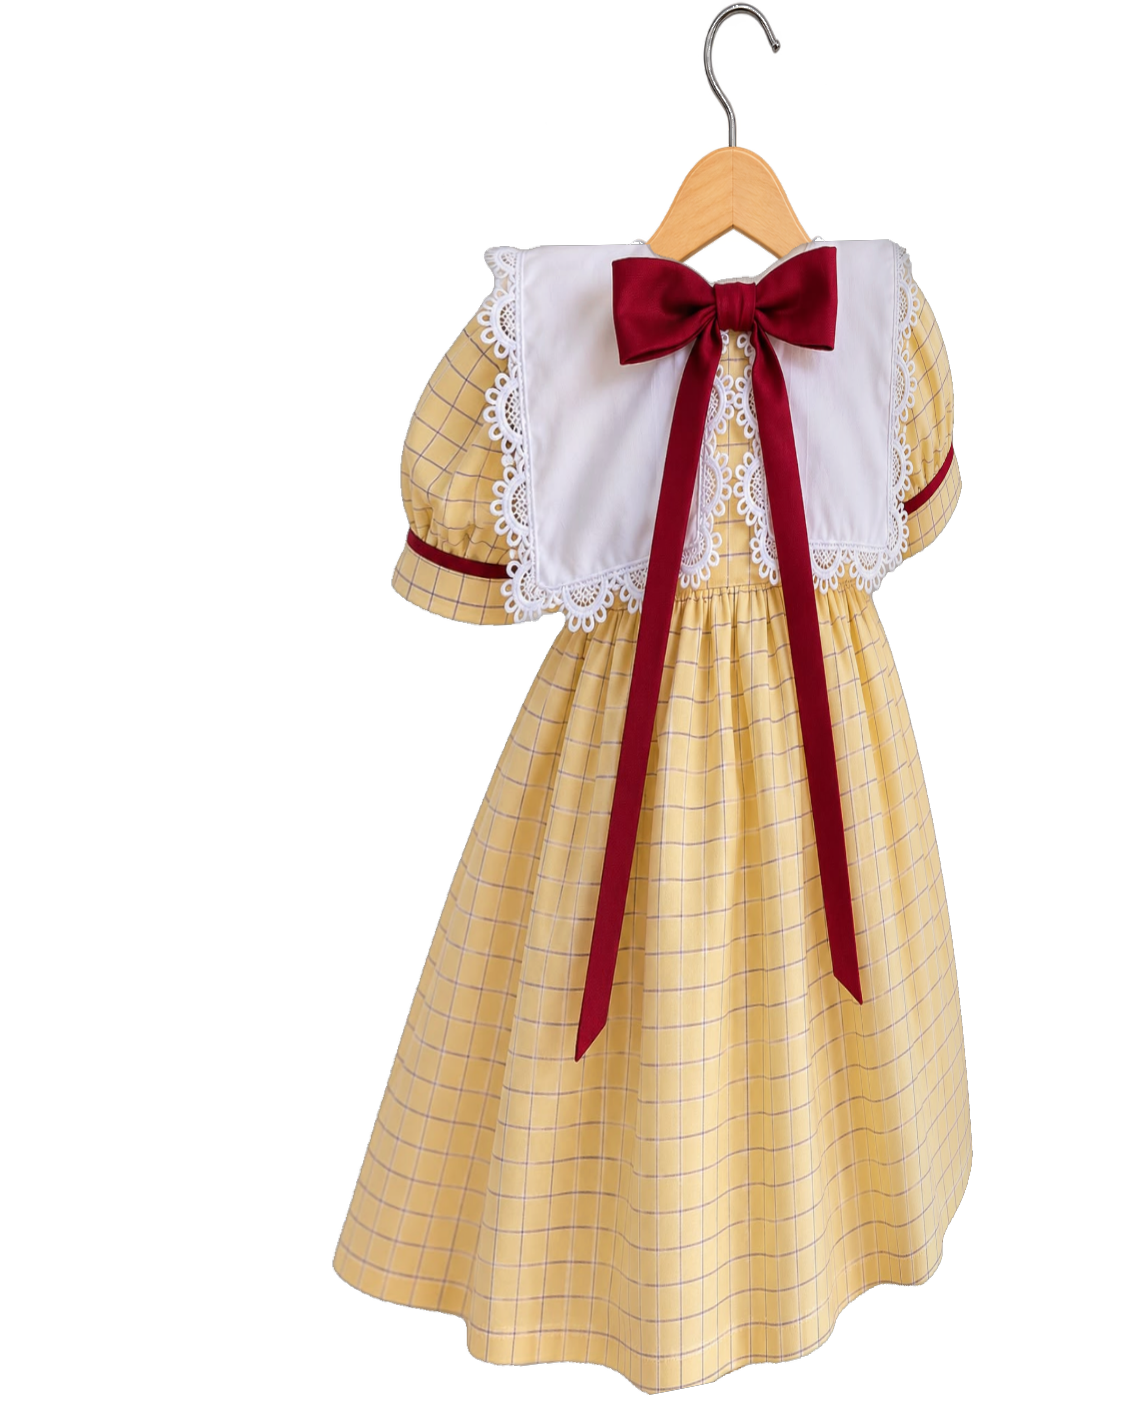
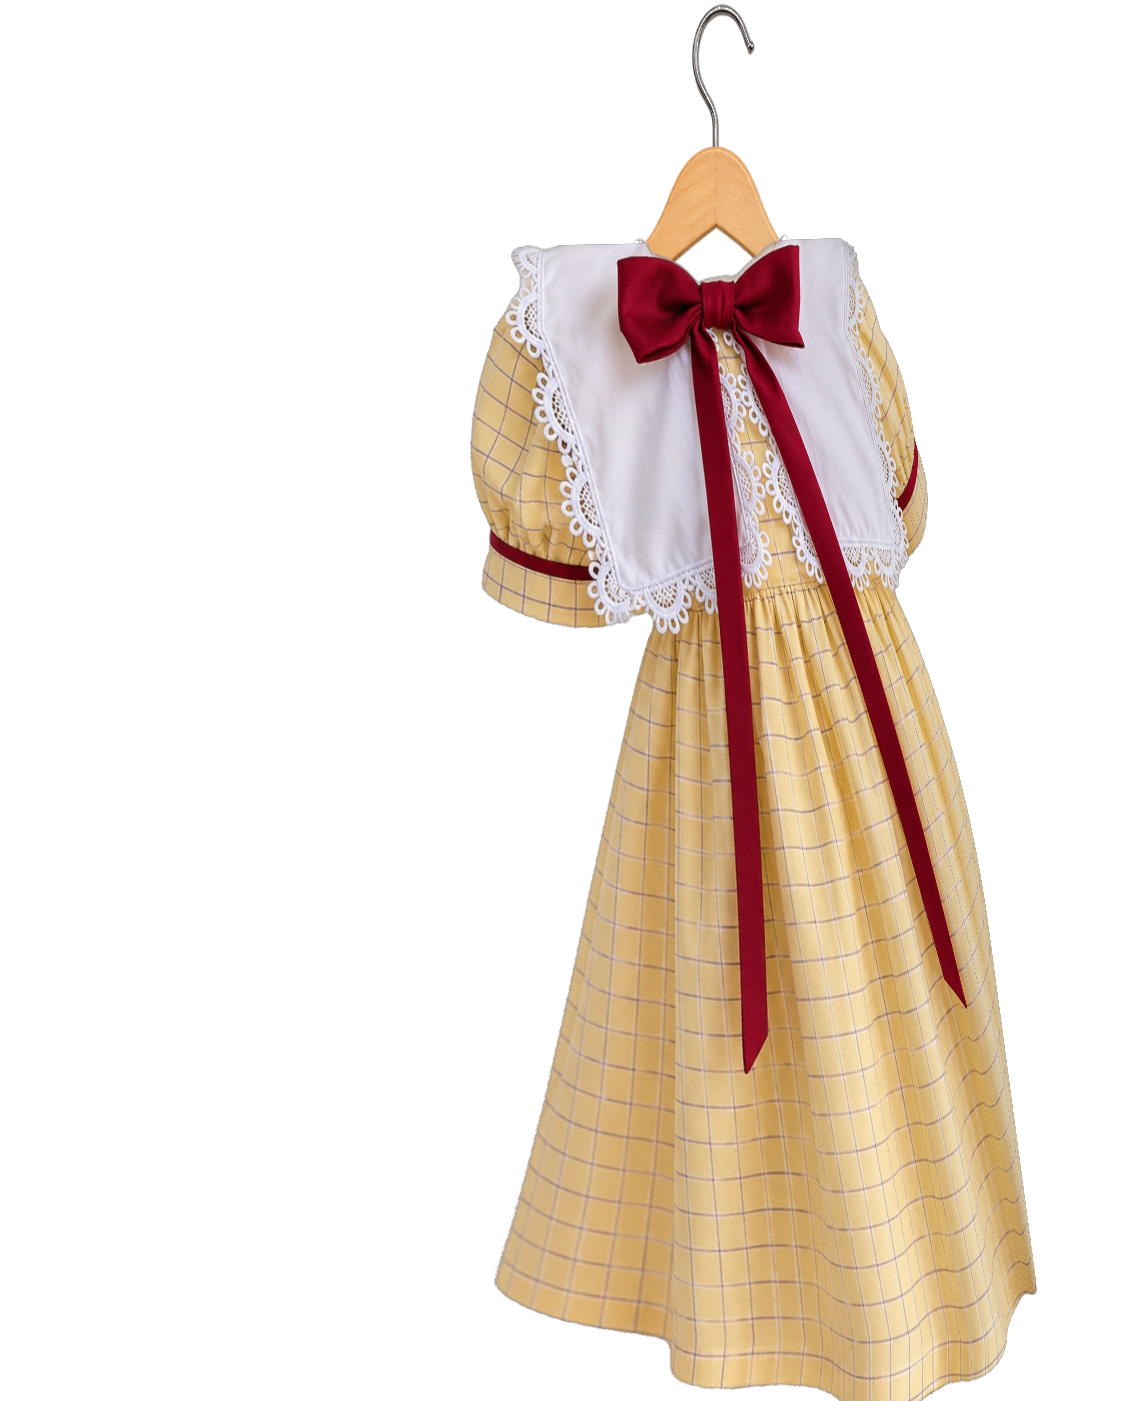
Ajusta o ângulo do Vestido Pão de Mel no cabideiro
Gira mais a peça (cerca de 55°) e mantém o volume da saia rodada,
estreitando só o corpinho, para combinar com as outras laterais.

Claude-Session: https://claude.ai/code/session_01JWzVUfE6a2CxmnwEsjALQt

diff --git a/encaixe-cabides.js b/encaixe-cabides.js
@@ -1,4 +1,4 @@
-window.BIBILICA_HOOKS={"assets/recortes/vestido-pao-de-mel.png": {"woodY": 145, "woodX": 560.1}, "assets/laterais/vestido-pao-de-mel.png": {"woodY": 145, "woodX": 732.8}, "assets/laterais/vestido-nuvem-verde.png": {"anchor": 33.8, "cut": 77.2, "x": 537.0, "woodY": 148, "woodX": 540.6}, "assets/recortes/vestido-nuvem-verde.png": {"anchor": 50.2, "cut": 125.8, "x": 545.0, "woodY": 145, "woodX": 560.1}, "assets/laterais/vestido-abelhinha.png": {"anchor": 33.6, "cut": 74.9, "x": 520.5, "woodY": 218, "woodX": 535.26}, "assets/laterais/vestido-algodao-doce.png": {"anchor": 44.2, "cut": 91.8, "x": 529.0, "woodY": 151, "woodX": 517.6}, "assets/laterais/vestido-botao-de-rosa.png": {"anchor": 43.6, "cut": 91.9, "x": 534.5, "woodY": 161, "woodX": 540.5}, "assets/laterais/vestido-campinho-azul.png": {"anchor": 40.4, "cut": 90.1, "x": 555.5, "woodY": 151, "woodX": 565.3}, "assets/laterais/vestido-campinho.png": {"anchor": 41.8, "cut": 88.7, "x": 559.5, "woodY": 160, "woodX": 566.3}, "assets/laterais/vestido-cerejeira.png": {"anchor": 35.6, "cut": 76.9, "x": 543.5, "woodY": 172, "woodX": 531.39}, "assets/laterais/vestido-cerejinha.png": {"anchor": 39.2, "cut": 90.3, "x": 505.5, "woodY": 149, "woodX": 514.9}, "assets/laterais/vestido-guirlanda.png": {"anchor": 28.2, "cut": 65.3, "x": 555.5, "woodY": 120, "woodX": 560.3}, "assets/laterais/vestido-jardinzinho.png": {"anchor": 31.8, "cut": 68.2, "x": 561.0, "woodY": 116, "woodX": 565.8}, "assets/laterais/vestido-laco-de-fita.png": {"anchor": 29.4, "cut": 65.1, "x": 555.5, "woodY": 102, "woodX": 561.7}, "assets/laterais/vestido-marujinha.png": {"anchor": 41.2, "cut": 92.3, "x": 535.5, "woodY": 146, "woodX": 535.7}, "assets/laterais/vestido-nuvem.png": {"anchor": 33.8, "cut": 77.2, "x": 537.0, "woodY": 148, "woodX": 540.6}, "assets/laterais/vestido-raminho.png": {"anchor": 35.8, "cut": 79.2, "x": 544.0, "woodY": 123, "woodX": 553.2}, "assets/recortes/vestido-abelhinha.png": {"anchor": 42.0, "cut": 101.5, "x": 648.5, "woodY": 146, "woodX": 654.2}, "assets/recortes/vestido-algodao-doce.png": {"anchor": 26.2, "cut": 59.8, "x": 636.0, "woodY": 144, "woodX": 633.6}, "assets/recortes/vestido-botao-de-rosa.png": {"anchor": 58.0, "cut": 131.5, "x": 525.5, "woodY": 165, "woodX": 536.2}, "assets/recortes/vestido-campinho-azul.png": {"anchor": 53.6, "cut": 126.4, "x": 546.0, "woodY": 147, "woodX": 559.6}, "assets/recortes/vestido-campinho.png": {"anchor": 56.6, "cut": 139.9, "x": 555.0, "woodY": 159, "woodX": 560.4}, "assets/recortes/vestido-cerejeira.png": {"anchor": 38.2, "cut": 89.3, "x": 539.0, "woodY": 140, "woodX": 542.1}, "assets/recortes/vestido-cerejinha.png": {"anchor": 43.6, "cut": 102.4, "x": 618.0, "woodY": 123, "woodX": 627.6}, "assets/recortes/vestido-guirlanda.png": {"anchor": 39.4, "cut": 99.6, "x": 556.0, "woodY": 116, "woodX": 560.6}, "assets/recortes/vestido-jardinzinho.png": {"anchor": 40.6, "cut": 95.9, "x": 555.5, "woodY": 110, "woodX": 562.3}, "assets/recortes/vestido-laco-de-fita.png": {"anchor": 41.4, "cut": 98.1, "x": 550.5, "woodY": 107, "woodX": 559.1}, "assets/recortes/vestido-marujinha.png": {"anchor": 52.6, "cut": 118.4, "x": 540.0, "woodY": 171, "woodX": 536.5}, "assets/recortes/vestido-nuvem.png": {"anchor": 50.2, "cut": 125.8, "x": 545.0, "woodY": 145, "woodX": 560.1}, "assets/recortes/vestido-raminho.png": {"anchor": 44.6, "cut": 110.4, "x": 535.0, "woodY": 115, "woodX": 546.6}, "assets/recortes/vestido-moranguinho-azul.png": {"woodY": 149, "woodX": 559.3}, "assets/laterais/vestido-moranguinho-azul.png": {"woodY": 147, "woodX": 573.9}, "assets/laterais/vestido-moranguinho-azul-direita.png": {"woodY": 145, "woodX": 555.6}};
+window.BIBILICA_HOOKS={"assets/recortes/vestido-pao-de-mel.png": {"woodY": 145, "woodX": 560.1}, "assets/laterais/vestido-pao-de-mel.png": {"woodY": 145, "woodX": 716.0}, "assets/laterais/vestido-nuvem-verde.png": {"anchor": 33.8, "cut": 77.2, "x": 537.0, "woodY": 148, "woodX": 540.6}, "assets/recortes/vestido-nuvem-verde.png": {"anchor": 50.2, "cut": 125.8, "x": 545.0, "woodY": 145, "woodX": 560.1}, "assets/laterais/vestido-abelhinha.png": {"anchor": 33.6, "cut": 74.9, "x": 520.5, "woodY": 218, "woodX": 535.26}, "assets/laterais/vestido-algodao-doce.png": {"anchor": 44.2, "cut": 91.8, "x": 529.0, "woodY": 151, "woodX": 517.6}, "assets/laterais/vestido-botao-de-rosa.png": {"anchor": 43.6, "cut": 91.9, "x": 534.5, "woodY": 161, "woodX": 540.5}, "assets/laterais/vestido-campinho-azul.png": {"anchor": 40.4, "cut": 90.1, "x": 555.5, "woodY": 151, "woodX": 565.3}, "assets/laterais/vestido-campinho.png": {"anchor": 41.8, "cut": 88.7, "x": 559.5, "woodY": 160, "woodX": 566.3}, "assets/laterais/vestido-cerejeira.png": {"anchor": 35.6, "cut": 76.9, "x": 543.5, "woodY": 172, "woodX": 531.39}, "assets/laterais/vestido-cerejinha.png": {"anchor": 39.2, "cut": 90.3, "x": 505.5, "woodY": 149, "woodX": 514.9}, "assets/laterais/vestido-guirlanda.png": {"anchor": 28.2, "cut": 65.3, "x": 555.5, "woodY": 120, "woodX": 560.3}, "assets/laterais/vestido-jardinzinho.png": {"anchor": 31.8, "cut": 68.2, "x": 561.0, "woodY": 116, "woodX": 565.8}, "assets/laterais/vestido-laco-de-fita.png": {"anchor": 29.4, "cut": 65.1, "x": 555.5, "woodY": 102, "woodX": 561.7}, "assets/laterais/vestido-marujinha.png": {"anchor": 41.2, "cut": 92.3, "x": 535.5, "woodY": 146, "woodX": 535.7}, "assets/laterais/vestido-nuvem.png": {"anchor": 33.8, "cut": 77.2, "x": 537.0, "woodY": 148, "woodX": 540.6}, "assets/laterais/vestido-raminho.png": {"anchor": 35.8, "cut": 79.2, "x": 544.0, "woodY": 123, "woodX": 553.2}, "assets/recortes/vestido-abelhinha.png": {"anchor": 42.0, "cut": 101.5, "x": 648.5, "woodY": 146, "woodX": 654.2}, "assets/recortes/vestido-algodao-doce.png": {"anchor": 26.2, "cut": 59.8, "x": 636.0, "woodY": 144, "woodX": 633.6}, "assets/recortes/vestido-botao-de-rosa.png": {"anchor": 58.0, "cut": 131.5, "x": 525.5, "woodY": 165, "woodX": 536.2}, "assets/recortes/vestido-campinho-azul.png": {"anchor": 53.6, "cut": 126.4, "x": 546.0, "woodY": 147, "woodX": 559.6}, "assets/recortes/vestido-campinho.png": {"anchor": 56.6, "cut": 139.9, "x": 555.0, "woodY": 159, "woodX": 560.4}, "assets/recortes/vestido-cerejeira.png": {"anchor": 38.2, "cut": 89.3, "x": 539.0, "woodY": 140, "woodX": 542.1}, "assets/recortes/vestido-cerejinha.png": {"anchor": 43.6, "cut": 102.4, "x": 618.0, "woodY": 123, "woodX": 627.6}, "assets/recortes/vestido-guirlanda.png": {"anchor": 39.4, "cut": 99.6, "x": 556.0, "woodY": 116, "woodX": 560.6}, "assets/recortes/vestido-jardinzinho.png": {"anchor": 40.6, "cut": 95.9, "x": 555.5, "woodY": 110, "woodX": 562.3}, "assets/recortes/vestido-laco-de-fita.png": {"anchor": 41.4, "cut": 98.1, "x": 550.5, "woodY": 107, "woodX": 559.1}, "assets/recortes/vestido-marujinha.png": {"anchor": 52.6, "cut": 118.4, "x": 540.0, "woodY": 171, "woodX": 536.5}, "assets/recortes/vestido-nuvem.png": {"anchor": 50.2, "cut": 125.8, "x": 545.0, "woodY": 145, "woodX": 560.1}, "assets/recortes/vestido-raminho.png": {"anchor": 44.6, "cut": 110.4, "x": 535.0, "woodY": 115, "woodX": 546.6}, "assets/recortes/vestido-moranguinho-azul.png": {"woodY": 149, "woodX": 559.3}, "assets/laterais/vestido-moranguinho-azul.png": {"woodY": 147, "woodX": 573.9}, "assets/laterais/vestido-moranguinho-azul-direita.png": {"woodY": 145, "woodX": 555.6}};
 Object.assign(window.BIBILICA_HOOKS, {
   "assets/laterais/vestido-lavanda-frente.png": {
     "woodY": 6,

diff --git a/index.html b/index.html
@@ -1564,6 +1564,6 @@ document.getElementById("ano").textContent = new Date().getFullYear();
 render();
 </script>
 
-<script src="encaixe-cabides.js?v=20261125-paodemel3"></script><script src="loja.js?v=20261124-paodemel"></script><script src="zoom.js?v=20261115-topomobile"></script><script src="favoritos.js?v=20261122-cores"></script>
+<script src="encaixe-cabides.js?v=20261125-paodemel4"></script><script src="loja.js?v=20261124-paodemel"></script><script src="zoom.js?v=20261115-topomobile"></script><script src="favoritos.js?v=20261122-cores"></script>
 </body>
 </html>
